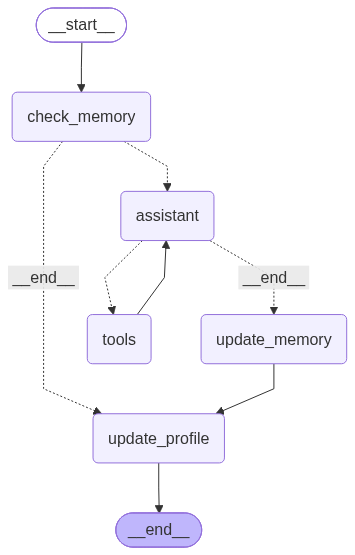
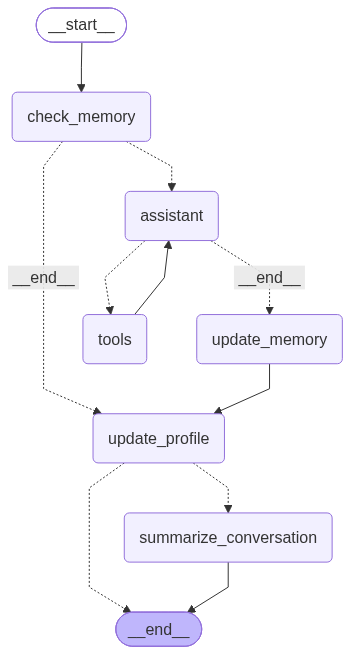
Phase 3 Langgraph agent completed, basic agent, shotrt term, long term memory, memories, sumarizer

diff --git a/brain/graph.py b/brain/graph.py
@@ -2,17 +2,21 @@
 import asyncio
 
 from langchain_core.messages import SystemMessage
+from langchain_core.runnables.config import RunnableConfig
 
 from langgraph.prebuilt import tools_condition
 from langgraph.prebuilt import ToolNode
-from langgraph.graph import StateGraph, MessagesState, START, END
+from langgraph.graph import StateGraph, START, END
 from langgraph.checkpoint.memory import InMemorySaver
+from langgraph.store.base import BaseStore
+
 
 from brain.resources.tools import call_rag
 from brain.resources.llm import llm, client
 from brain.resources.profile import update_profile
 from brain.resources.prompts import SYSTEM_PROMPT
 from brain.resources.memory import check_memory, update_memory, route_after_memory_check, longterm_memory
+from brain.resources.summarizer import summarize_conversation, summary_trigger, State
 
 async def build_graph():
     """Function that builds the graph of the agent"""
@@ -20,18 +24,31 @@ async def build_graph():
     tools = web_search + [call_rag]
     shorterm_memory = InMemorySaver()
 
-    def assistant(state:MessagesState):
+    def assistant(state: State, config: RunnableConfig, store: BaseStore):
         """main AI agent"""
-        messages = [SystemMessage(content=SYSTEM_PROMPT)] + state['messages']
+        thread_id = config['configurable']['thread_id']
+        namespace = ('profile', thread_id)
+        profile_item = store.get(namespace, 'profile_data')
+        profile_context = f'\n\nKnown user information: {profile_item}' if profile_item else ''
+
+        summary = state.get('summary', '')
+        print(f'##DEBUG##: SUMMARY ACTUAL:{summary}')
+
+        system_content = SYSTEM_PROMPT + profile_context
+        if summary:
+            system_content + f'\n\nSummary of previous conversation: {summary}'
+        
+        messages = [SystemMessage(content=system_content)] + state['messages']
         response = llm.bind_tools(tools).invoke(messages)
         return {'messages': [response]}
 
-    builder = StateGraph(MessagesState)
+    builder = StateGraph(State)
     builder.add_node('check_memory', check_memory)
     builder.add_node('assistant', assistant)
     builder.add_node('update_profile', update_profile)
     builder.add_node('update_memory', update_memory)
     builder.add_node('tools', ToolNode(tools))
+    builder.add_node('summarize_conversation', summarize_conversation)
 
     builder.add_edge(START, 'check_memory')
     builder.add_conditional_edges(
@@ -50,7 +67,15 @@ async def build_graph():
         })
     builder.add_edge('update_memory', 'update_profile')
     builder.add_edge('tools','assistant')
-    builder.add_edge('update_profile', END)
+    builder.add_conditional_edges(
+        'update_profile',
+        summary_trigger,
+        {
+            'summarize_conversation': 'summarize_conversation',
+            '__end__': END
+        }
+    )
+    builder.add_edge('summarize_conversation', END)
 
     app = builder.compile(checkpointer=shorterm_memory, store=longterm_memory)
     return app
@@ -68,7 +93,10 @@ if __name__ == '__main__':
         result = await app.ainvoke({'messages':[{'role':'user', 'content':'Hola mi nombre es Jorge, soy ingeniero y acabo de cumplir 31 años'}]}, config)
         result = await app.ainvoke({'messages':[{'role':'user', 'content':'cual es la 3 fase de mi proyecto RAG?'}]}, config)
         result = await app.ainvoke({'messages':[{'role':'user', 'content':'recuerdas mi edad?'}]}, config)
-        result = await app.ainvoke({'messages':[{'role':'user', 'content':'cual es la 3 fase de mi proyecto RAG?'}]}, config)
+        result = await app.ainvoke({'messages':[{'role':'user', 'content':'Ya casi termino el agente con Langgraph del proyecto'}]}, config)
+        result = await app.ainvoke({'messages':[{'role':'user', 'content':'que es un loro estocastico? resumelo en 4 lineas'}]}, config)
+        result = await app.ainvoke({'messages':[{'role':'user', 'content':'Mi proyecto RAG involucra un loro estocastico?'}]}, config)
+        result = await app.ainvoke({'messages':[{'role':'user', 'content':'recuerdas que tengo 31 años, los cumpli hace casi un mes, el 26 de agosto'}]}, config)
         for m in result['messages']:
             m.pretty_print()
 

diff --git a/brain/resources/memory.py b/brain/resources/memory.py
@@ -1,7 +1,6 @@
 from uuid import uuid4
 from pydantic import BaseModel, Field
 
-from langgraph.graph import MessagesState
 from langgraph.store.base import BaseStore
 from langgraph.store.memory import InMemoryStore
 
@@ -9,6 +8,7 @@ from langchain_core.runnables import RunnableConfig
 from langchain_core.messages import AIMessage, HumanMessage
 from langchain_google_genai import GoogleGenerativeAIEmbeddings
 
+from brain.resources.summarizer import State
 
 class Memory(BaseModel):
     """An specific event or exchange within the conversation"""
@@ -36,7 +36,7 @@ def search_memories(query: str, thread_id: str, store: BaseStore, umbral: float 
     return None
 
 
-def check_memory(state: MessagesState, config: RunnableConfig, store: BaseStore):
+def check_memory(state: State, config: RunnableConfig, store: BaseStore):
     """Search and find the memories if exist"""
     thread_id = config['configurable']['thread_id']
     last_question = state['messages'][-1].content
@@ -49,7 +49,7 @@ def check_memory(state: MessagesState, config: RunnableConfig, store: BaseStore)
     return{}
 
 
-def update_memory(state: MessagesState, config: RunnableConfig, store: BaseStore):
+def update_memory(state: State, config: RunnableConfig, store: BaseStore):
     """Function to update the long term memory"""
     thread_id = config['configurable']['thread_id']
     namespace = ('memories', thread_id)
@@ -60,11 +60,11 @@ def update_memory(state: MessagesState, config: RunnableConfig, store: BaseStore
 
     memory_id = str(uuid4())
     store.put(namespace, memory_id, {'question':last_question, 'answer':last_response})
-    print(f'STORE##MEMORY##GUARDADO:{store.get(namespace, memory_id)}')
+    print(f'##DEBUG##MEMORY##GUARDADO:{store.get(namespace, memory_id)}')
     return {}
 
 
-def route_after_memory_check(state: MessagesState):
+def route_after_memory_check(state: State):
     last_state_message = state['messages'][-1]
     if isinstance(last_state_message, AIMessage):
         return '__end__'

diff --git a/brain/resources/profile.py b/brain/resources/profile.py
@@ -4,11 +4,11 @@ from typing import Optional
 from langchain_core.messages import HumanMessage
 from langchain_core.runnables.config import RunnableConfig
 
-from langgraph.graph import MessagesState
 from langgraph.store.base import BaseStore
 from trustcall import create_extractor
 
 from brain.resources.llm import llm
+from brain.resources.summarizer import State
 
 
 class Profile(BaseModel):
@@ -24,7 +24,7 @@ extractor = create_extractor(
 )
 
 
-def update_profile(state: MessagesState, config: RunnableConfig, store: BaseStore):
+def update_profile(state: State, config: RunnableConfig, store: BaseStore):
     """Function to update the user profile with information extracted by TrustCall"""
     thread_id = config['configurable']['thread_id']
     namespace = ('profile', thread_id)
@@ -40,5 +40,5 @@ def update_profile(state: MessagesState, config: RunnableConfig, store: BaseStor
 
     updated_profile = result['responses'][0].model_dump()
     store.put(namespace, 'profile_data', updated_profile)
-    print(f'STORE####GUARDADO:{store.get(namespace,'profile_data')}')
+    print(f'##DEBUG##PERFIL#ACTUAL:{store.get(namespace,'profile_data')}')
     return{}

diff --git a/brain/resources/summarizer.py b/brain/resources/summarizer.py
@@ -1,0 +1,27 @@
+from langgraph.graph import MessagesState
+from langchain_core.messages import RemoveMessage, HumanMessage
+from brain.resources.prompts import NEW_SUMMARY, CONTINUE_SUMMARY
+from brain.resources.llm import llm
+
+class State(MessagesState):
+    summary: str
+
+def summarize_conversation(state: State):
+    print(f'DEBUG##: SUMMARY TRIGGERED LEN: {len(state['messages'])}')
+    summary = state.get('summary', "")
+
+    if summary:
+        summary_prompt = CONTINUE_SUMMARY
+    else: 
+        summary_prompt = NEW_SUMMARY
+    messages = state['messages'] + [HumanMessage(summary_prompt)]
+    response = llm.invoke(messages)
+    delete_messages = [RemoveMessage(id=msg.id) for msg in state['messages'][:-1]]
+    print(f'##DEBUG##SUMMARY UPDATED##: {response}')
+    return{'summary':response, 'messages':delete_messages}
+
+def summary_trigger(state: State):
+    if len(state['messages']) > 5:
+        return 'summarize_conversation'
+    return '__end__'
+

diff --git a/brain/resources/prompts.py b/brain/resources/prompts.py
@@ -3,3 +3,7 @@ SYSTEM_PROMPT = """You are a helpful assistant that respond to the user always u
 - if the query cannot be answered with this information always use the 'web_search'tool before using your knowledge.
 Never respond automatically if a tool can give you more precisely information,
 Once you have the response from the selected tool or tools, you can use your knowledge to complete or polish the answer before sending it to the user."""
+
+NEW_SUMMARY = """Please create a summary of the above conversation"""
+
+CONTINUE_SUMMARY = """This is the summary of the conversation until now {summary}.\n\n Extend the summary considering the last messages above"""
